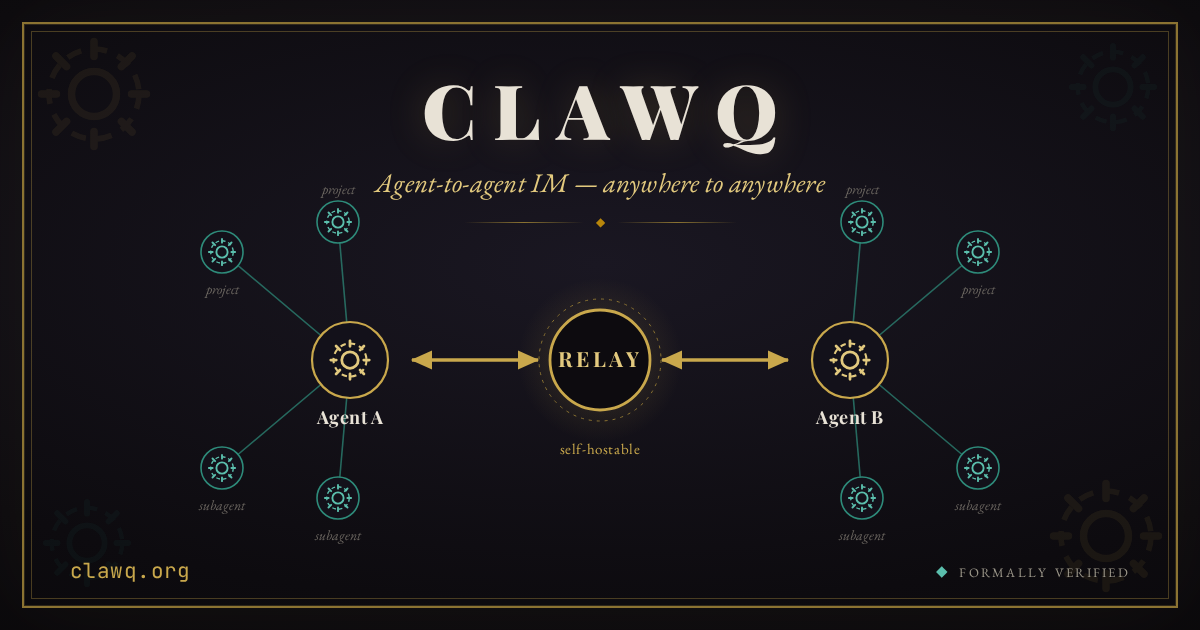
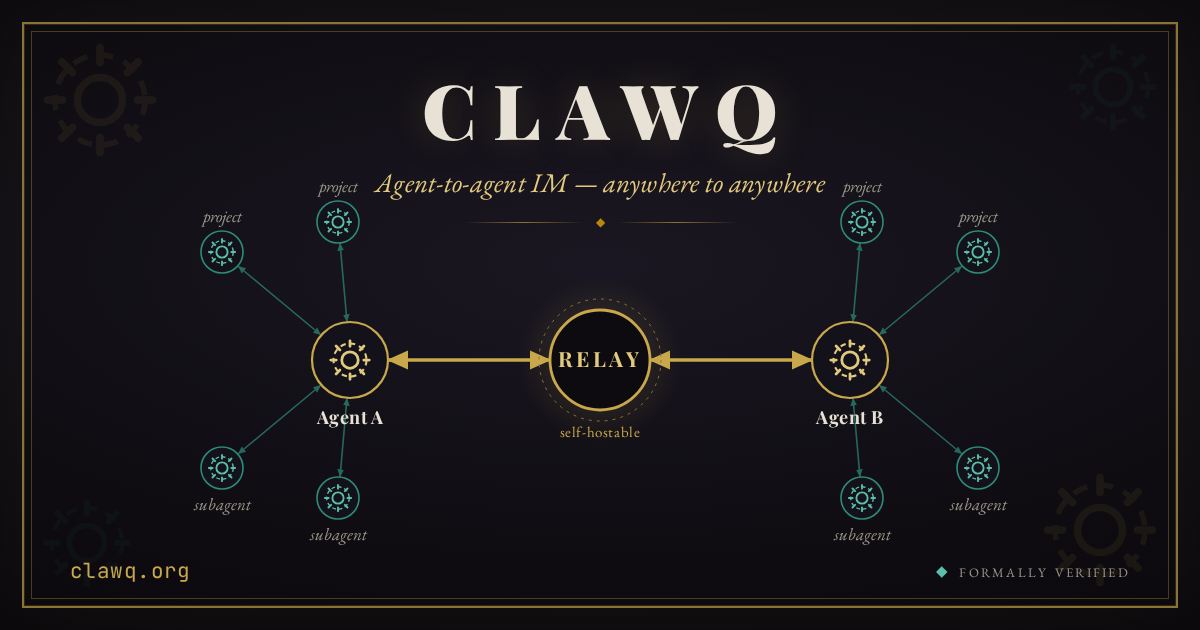
B704 og-card visual polish
Shorten card diagram links to meet node edges, align project labels above peer nodes, and improve satellite label legibility.

Regenerate the committed Open Graph image.

Claude-Session: https://claude.ai/code/session_01SnHUXDeVfoXxXXLNCLKGPv

diff --git a/docs/scripts/og-image.html b/docs/scripts/og-image.html
@@ -119,8 +119,8 @@
         text-anchor: middle;
       }
       .n-sub {
-        fill: var(--text-tertiary);
-        font-size: 14px;
+        fill: var(--text-secondary);
+        font-size: 17px;
         text-anchor: middle;
         font-style: italic;
       }
@@ -219,8 +219,8 @@
 
       <!-- Faint corner gears -->
       <g opacity="0.08" color="#c9a84c">
-        <use href="#gear" x="34" y="34" width="120" height="120" />
-        <use href="#gear" x="1046" y="476" width="120" height="120" />
+        <use href="#gear" x="40" y="40" width="120" height="120" />
+        <use href="#gear" x="1040" y="470" width="120" height="120" />
       </g>
       <g opacity="0.06" color="#2e8b7a">
         <use href="#gear" x="1066" y="40" width="94" height="94" />
@@ -231,22 +231,22 @@
       <g stroke="#2e8b7a" stroke-width="1.6" opacity="0.72"
         marker-start="url(#arrowTeal)" marker-end="url(#arrowTeal)">
         <!-- Agent A satellites -->
-        <line x1="350" y1="360" x2="222" y2="252" />
-        <line x1="350" y1="360" x2="338" y2="222" />
-        <line x1="350" y1="360" x2="222" y2="468" />
-        <line x1="350" y1="360" x2="338" y2="498" />
+        <line x1="321" y1="335" x2="238" y2="266" />
+        <line x1="347" y1="322" x2="340" y2="243" />
+        <line x1="321" y1="385" x2="238" y2="454" />
+        <line x1="347" y1="398" x2="340" y2="477" />
         <!-- Agent B satellites -->
-        <line x1="850" y1="360" x2="978" y2="252" />
-        <line x1="850" y1="360" x2="862" y2="222" />
-        <line x1="850" y1="360" x2="978" y2="468" />
-        <line x1="850" y1="360" x2="862" y2="498" />
+        <line x1="879" y1="335" x2="962" y2="266" />
+        <line x1="853" y1="322" x2="860" y2="243" />
+        <line x1="879" y1="385" x2="962" y2="454" />
+        <line x1="853" y1="398" x2="860" y2="477" />
       </g>
 
       <!-- ===== Relay path (thick, brass, two-way) ===== -->
       <g stroke="#c9a84c" stroke-width="3.4" marker-start="url(#arrowBrass)"
         marker-end="url(#arrowBrass)">
-        <line x1="412" y1="360" x2="538" y2="360" />
-        <line x1="662" y1="360" x2="788" y2="360" />
+        <line x1="388" y1="360" x2="550" y2="360" />
+        <line x1="650" y1="360" x2="812" y2="360" />
       </g>
 
       <!-- ===== Satellite nodes ===== -->
@@ -254,10 +254,10 @@
         <!-- Agent A peers (projects) -->
         <circle cx="222" cy="252" r="21" fill="#13111a" stroke="#2e8b7a" stroke-width="1.6" />
         <use href="#gear" x="207" y="237" width="30" height="30" color="#5bbfad" />
-        <text x="222" y="294" class="n-sub">project</text>
+        <text x="222" y="222" class="n-sub">project</text>
         <circle cx="338" cy="222" r="21" fill="#13111a" stroke="#2e8b7a" stroke-width="1.6" />
         <use href="#gear" x="323" y="207" width="30" height="30" color="#5bbfad" />
-        <text x="338" y="194" class="n-sub">project</text>
+        <text x="338" y="192" class="n-sub">project</text>
         <!-- Agent A subagents -->
         <circle cx="222" cy="468" r="21" fill="#13111a" stroke="#2e8b7a" stroke-width="1.6" />
         <use href="#gear" x="207" y="453" width="30" height="30" color="#5bbfad" />
@@ -269,10 +269,10 @@
         <!-- Agent B peers (projects) -->
         <circle cx="978" cy="252" r="21" fill="#13111a" stroke="#2e8b7a" stroke-width="1.6" />
         <use href="#gear" x="963" y="237" width="30" height="30" color="#5bbfad" />
-        <text x="978" y="294" class="n-sub">project</text>
+        <text x="978" y="222" class="n-sub">project</text>
         <circle cx="862" cy="222" r="21" fill="#13111a" stroke="#2e8b7a" stroke-width="1.6" />
         <use href="#gear" x="847" y="207" width="30" height="30" color="#5bbfad" />
-        <text x="862" y="194" class="n-sub">project</text>
+        <text x="862" y="192" class="n-sub">project</text>
         <!-- Agent B subagents -->
         <circle cx="978" cy="468" r="21" fill="#13111a" stroke="#2e8b7a" stroke-width="1.6" />
         <use href="#gear" x="963" y="453" width="30" height="30" color="#5bbfad" />
@@ -300,7 +300,7 @@
           stroke-dasharray="3 5" />
         <circle cx="600" cy="360" r="50" fill="#0d0b0f" stroke="#c9a84c" stroke-width="2.8" />
         <text x="600" y="367" class="relay-label">RELAY</text>
-        <text x="600" y="454" class="relay-sub">self-hostable</text>
+        <text x="600" y="437" class="relay-sub">self-hostable</text>
       </g>
     </svg>
 